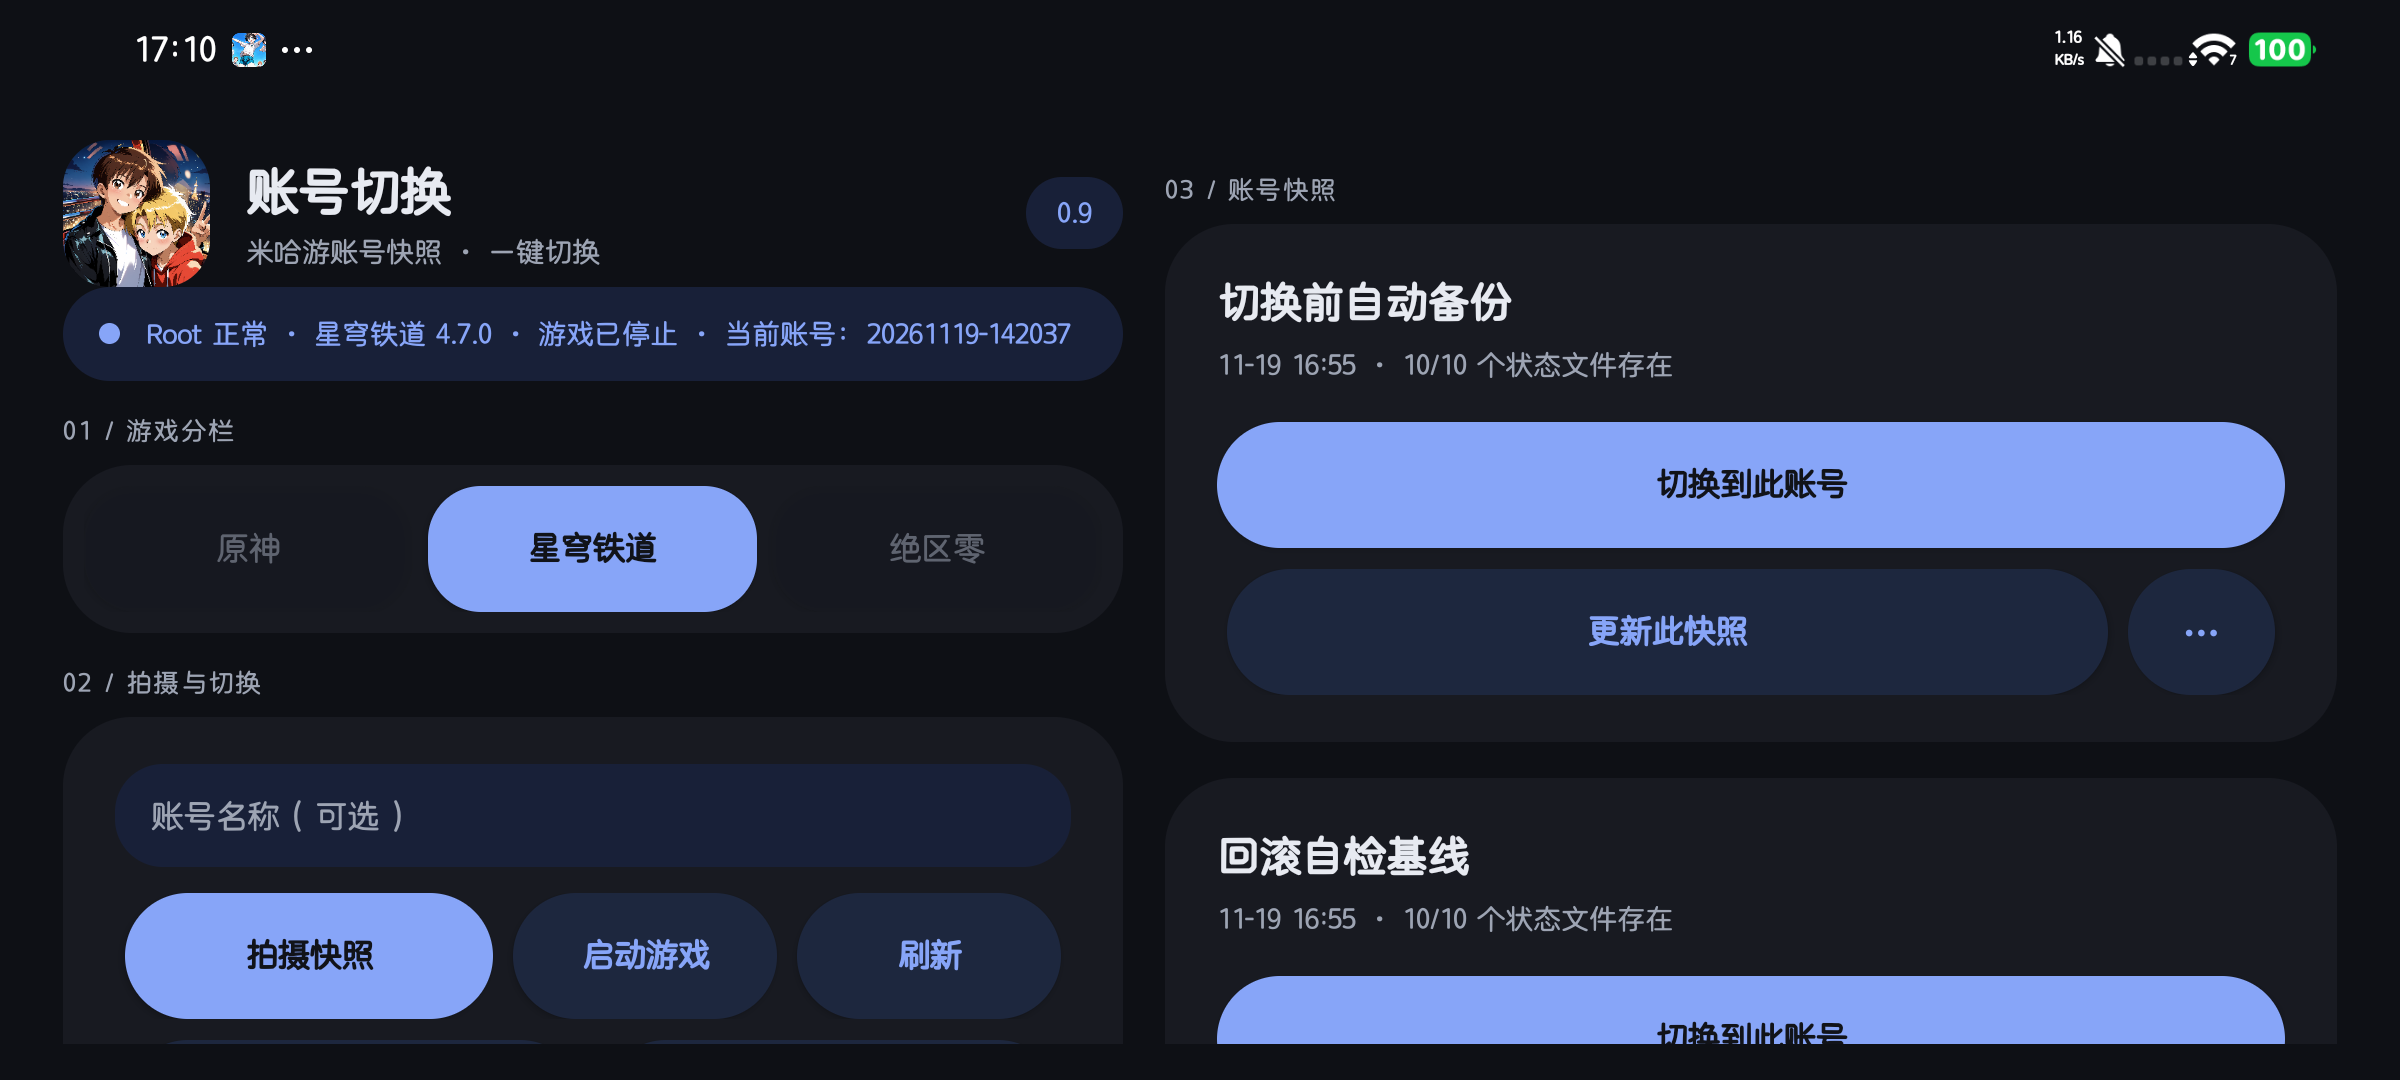
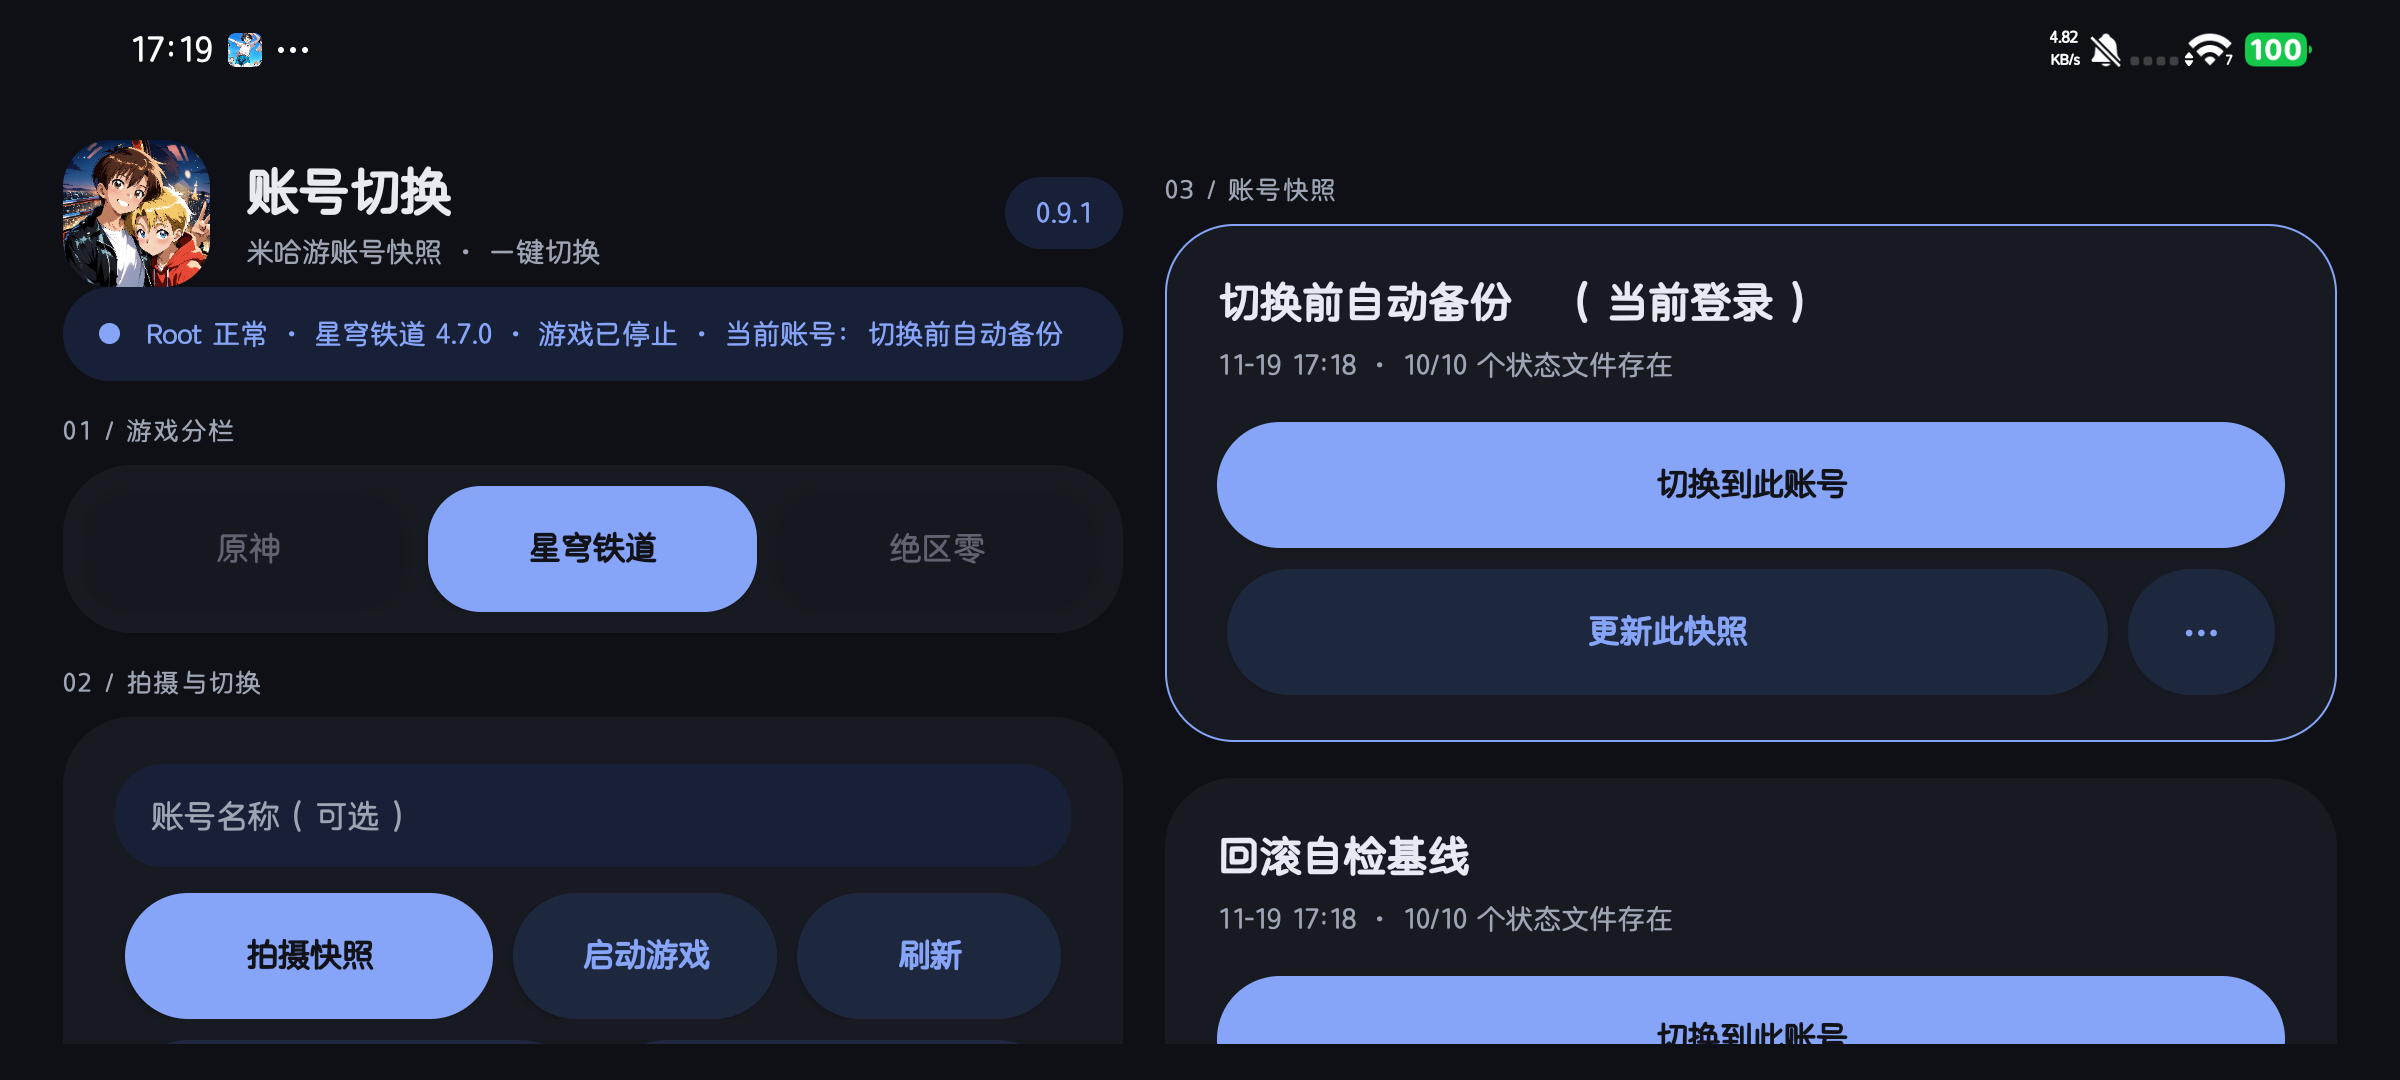
app: restore lost overflow listener, make cards tappable, prune stale snapshots (0.9.1)

diff --git a/app/src/dev/hoyoswitch/app/MainActivity.java b/app/src/dev/hoyoswitch/app/MainActivity.java
@@ -607,6 +607,7 @@ public final class MainActivity extends Activity {
                 running = false;
                 version = "";
             }
+            store.cleanup(selected);
             snapshots = store.list(selected);
             try {
                 current = store.detectCurrent(selected);
@@ -713,9 +714,12 @@ public final class MainActivity extends Activity {
             LinearLayout card = new LinearLayout(this);
             card.setOrientation(LinearLayout.VERTICAL);
             boolean isCurrent = snapshot.id.equals(currentId);
-            card.setBackground(isCurrent
+            GradientDrawable cardFill = isCurrent
                     ? surface(R.color.card_bg, R.color.accent, 26)
-                    : surface(R.color.card_bg, R.color.card_bg, 26));
+                    : surface(R.color.card_bg, R.color.card_bg, 26);
+            card.setBackground(ripple(cardFill));
+            card.setClickable(true);
+            card.setOnClickListener(view -> showCardMenu(snapshot));
             int cardPad = dp(20);
             card.setPadding(cardPad, dp(18), cardPad, dp(18));
 
@@ -757,6 +761,7 @@ public final class MainActivity extends Activity {
                     () -> AccountUpdater.updateTarget(store, snapshot, this::appendLog)));
             Button moreButton = pill("⋯", false);
             moreButton.setContentDescription("更多操作：" + snapshot.name);
+            moreButton.setOnClickListener(view -> showCardMenu(snapshot));
             row.addView(updateButton, weightWrap(1f, dp(4)));
             LinearLayout.LayoutParams moreParams = new LinearLayout.LayoutParams(dp(56),
                     ViewGroup.LayoutParams.WRAP_CONTENT);
@@ -776,6 +781,7 @@ public final class MainActivity extends Activity {
     }
 
     private void showCardMenu(SnapshotStore.Snapshot snapshot) {
+        Log.i("hoyoswitch", "card menu: " + snapshot.name);
         String[] items = {"重命名", "删除快照", "历史版本"};
         new AlertDialog.Builder(this)
                 .setTitle(snapshot.name)

diff --git a/app/src/dev/hoyoswitch/app/SnapshotStore.java b/app/src/dev/hoyoswitch/app/SnapshotStore.java
@@ -364,6 +364,28 @@ final class SnapshotStore {
         }
     }
 
+    /**
+     * Housekeeping: removes abandoned directories that never got a manifest (interrupted
+     * captures) and trims snapshots created by the self tests.
+     */
+    void cleanup(GameProfile game) {
+        File base = dirFor(game);
+        File[] children = base.listFiles();
+        long cutoff = System.currentTimeMillis() - 10 * 60 * 1000L;
+        if (children != null) {
+            for (File child : children) {
+                if (!child.isDirectory() || HISTORY.equals(child.getName())) {
+                    continue;
+                }
+                if (!new File(child, MANIFEST).isFile() && child.lastModified() < cutoff) {
+                    deleteRecursively(child);
+                }
+            }
+        }
+        pruneNamed(game, "回滚自检基线", 1);
+        pruneNamed(game, "切换前自动备份", 2);
+    }
+
     static final class HistoryEntry {
         File dir;
         long time;

diff --git a/docs/PROGRESS.md b/docs/PROGRESS.md
@@ -22,6 +22,7 @@
 - 补充（16:50–16:57）：按「轻控」风格重做界面并发布 0.7。改为固定暗色（`values` 与 `values-night` 同一套暗色调色板，主题 `Theme.Material.NoActionBar`，主按钮文字用 `on_accent`）；结构改为头像＋应用名＋版本胶囊、大标题、状态胶囊、编号小节与胶囊按钮；页面左右留白 24dp、卡片内边距 20dp、间距 14dp、按钮间隔 6–8dp。修复 `setFitsSystemWindows(true)` 覆盖左右内边距导致贴边的问题，并用 `OnApplyWindowInsetsListener` 处理 `targetSdk 36` 的边到边，内容不再钻到状态栏下；分栏去掉「（未适配）」后缀改为半透明，避免换行。复跑自检：`CARDOPS PASS`、`SELFTEST PASS`。
 - 补充（17:00–17:05）：界面代码三轮审查并发布 0.8。修复：`values-night` 与默认重复导致配置漂移（删除夜间副本，固定暗色）；头像 1650px 图标直接解码约占 11MB（改为 `inSampleSize=8` 采样，并处理解码返回 null）；禁用态按钮仍显示强调色（补 alpha 0.45）；日志折叠后「04 / 操作日志」小节仍留在页面上（一起隐藏）；空态与未适配提示用 px 而非 dp；分栏与卡片按钮缺 Ripple 反馈（`renderTabs` 重建背景时覆盖了胶囊的 Ripple，统一抽 `ripple()`）；账号名过长无截断（最多两行省略）；删掉未使用的 `weightWrap(float)` 与两个无引用颜色。真机验证：`隐藏日志` 点击后按钮变为 `显示日志` 且「04 / 操作日志」消失，重开应用恢复默认显示。
 - 补充（17:07–17:12）：横屏排版并发布 0.9。横屏改为左右两栏（左：页头/状态/分栏/拍摄切换控件；右：账号卡片/日志），两栏各自滚动；横屏隐藏大标题与副标题、收紧小节内边距以腾出纵向空间。实现上先构建竖屏单列树，再重排为两栏，避免复制整套布局代码。修复首帧右栏被焦点顶到下方的偏移（两栏 `scrollTo(0,0)`）。旋转测试：竖屏↔横屏切换无崩溃，所选分栏、日志内容与折叠状态经 `onSaveInstanceState` 保留。横屏下复跑 `CARDOPS PASS`、`SELFTEST PASS`。
+- 补充（17:12–17:18）：修复「点⋯没反应」并发布 0.9.1。根因是账号卡片重写时 `moreButton` 的 `setOnClickListener` 被漏掉，按钮可点击但无处理；已补上，并把整张卡片也设为可点（打开同一菜单，带 Ripple 反馈）。同时新增列表清理：`refresh()` 前删除 10 分钟以上仍未写出清单的残留目录（中断的拍摄），并把「回滚自检基线」保留 1 份、「切换前自动备份」保留 2 份；快照数从 20 份降到 6 份。验证：点⋯弹出菜单、点卡片弹出菜单、更新快照成功（`createdAt` 更新并归档历史），`CARDOPS PASS`、`SELFTEST PASS`。
 
 ## 2026-11-19 第八轮：新数据代复验，4 文件切换可复现
 
